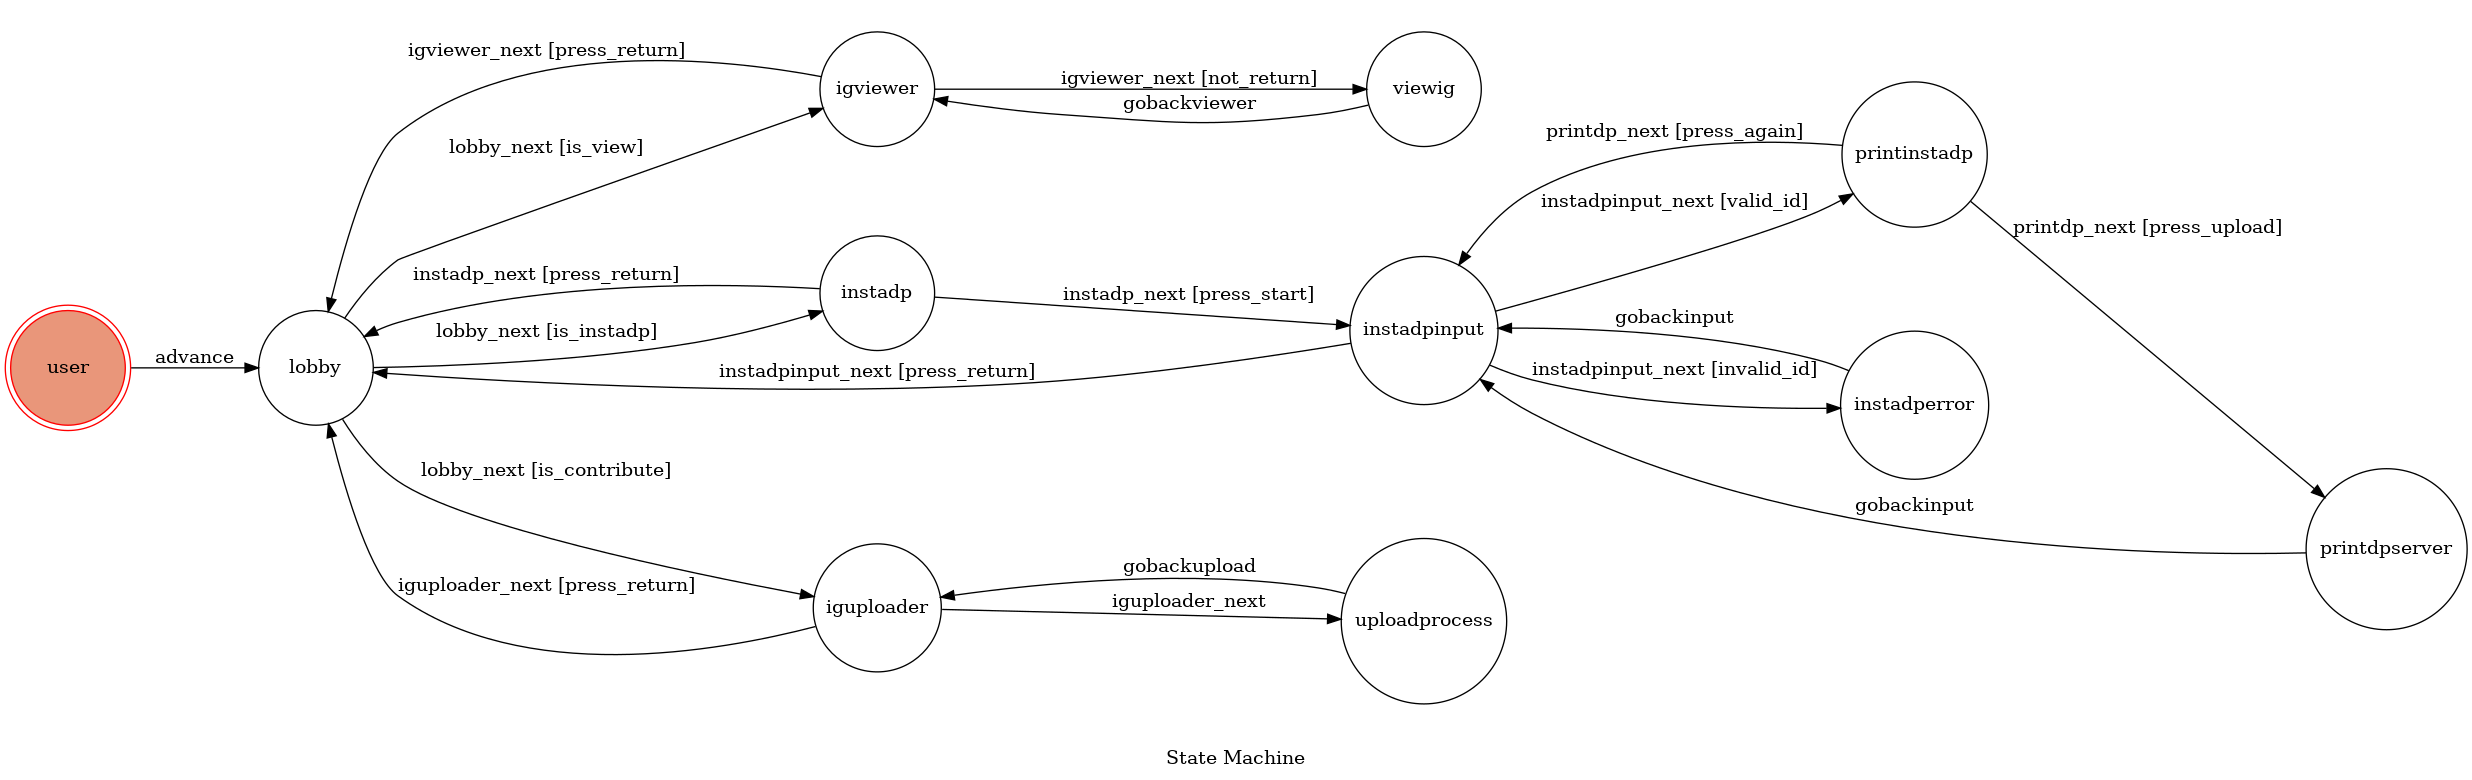
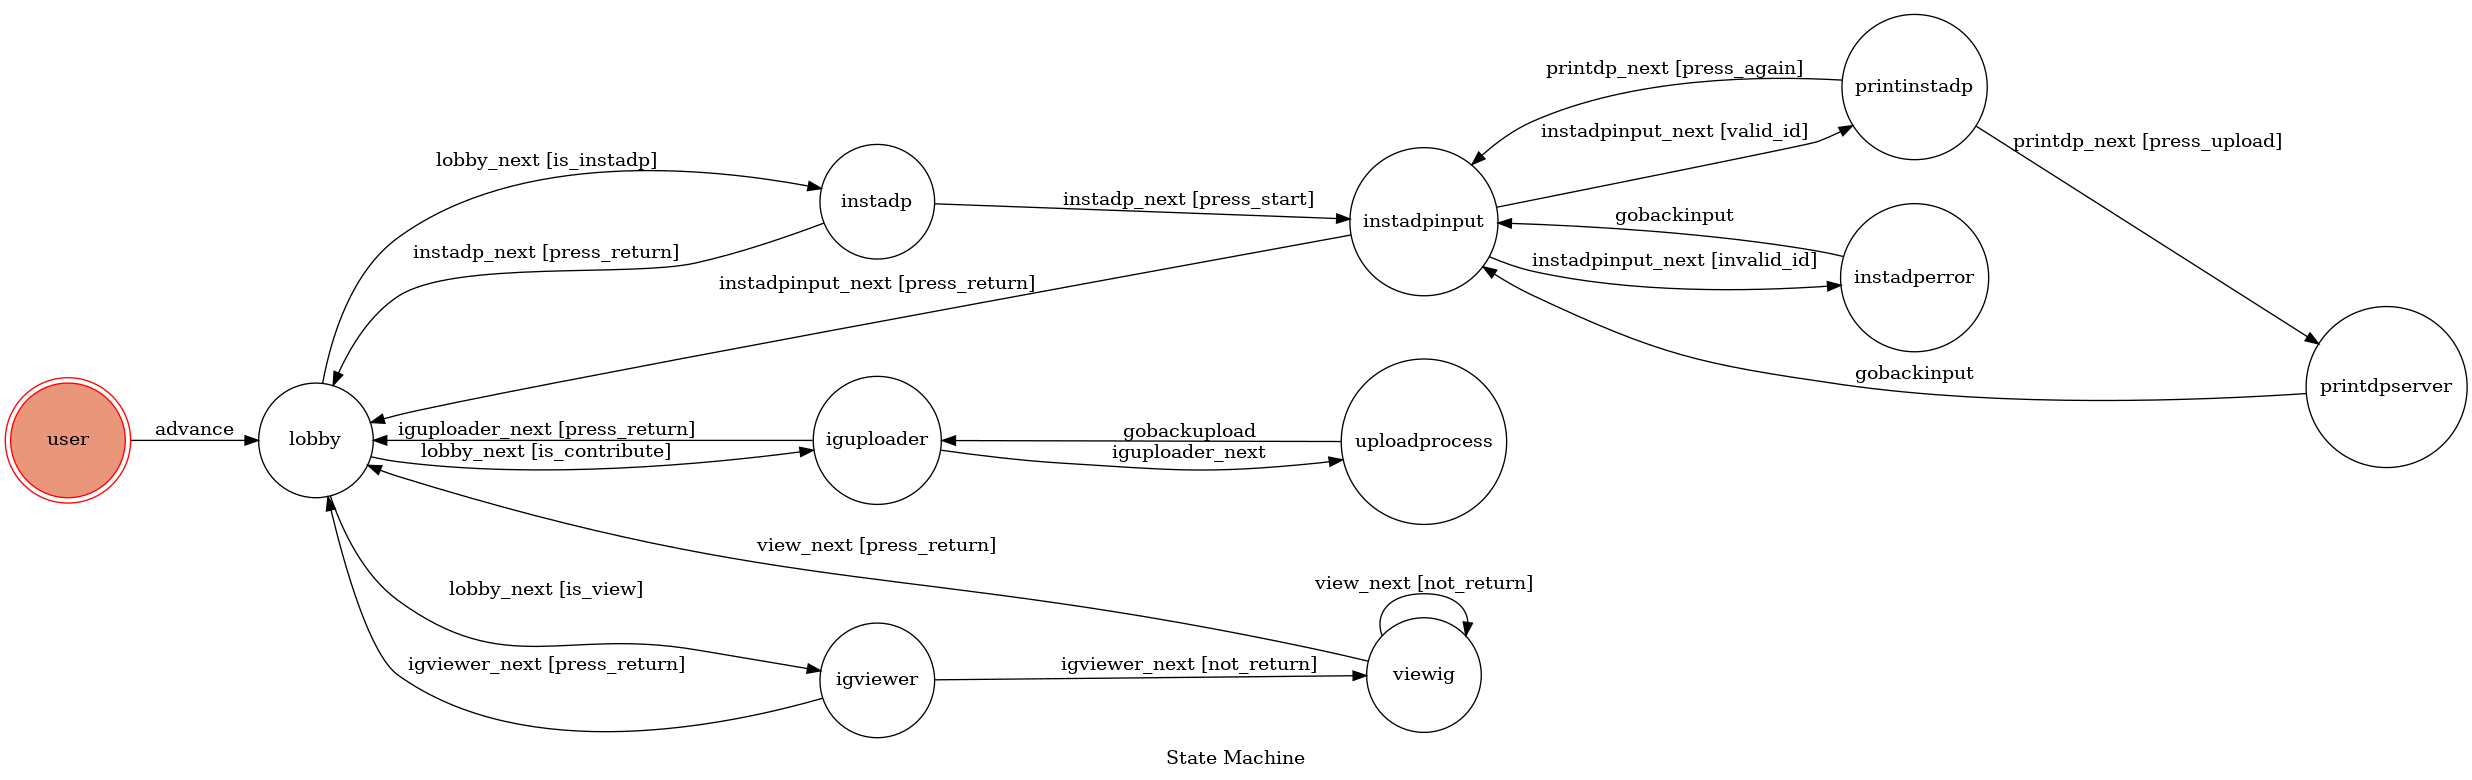
settle filter

diff --git a/messengerbot/igbot/fsm.py b/messengerbot/igbot/fsm.py
@@ -5,6 +5,7 @@ from igbot.messages import *
 from igbot.instadp import *
 
 from igbot.igbot_setting import *
+import operator
 singleIgUrl = ""
 post_url = "https://graph.facebook.com/v2.6/me/messenger_profile?access_token=%s" % ACCESS_TOKEN
 
@@ -149,8 +150,7 @@ class TocMachine(GraphMachine):
             countrylist = "%s\n%s" % (countrylist, entry['country'])
         print(genrelist)
         print(countrylist)
-        # api.button_message("輸入搜尋關鍵字\n\"我要看[臺灣/火熱/最新/推薦/Youtuber]正妹\"\n我要看馬來西亞正妹", messages['returnlobby_button'])
-        api.button_message("輸入搜尋關鍵字\n\"我要看[臺灣/火熱/最新/推薦/Youtuber]正妹\"\n範例:\"我要看馬來西亞正妹\"\n\n特殊關鍵字:\n熱門（Likes)\n最新(引進日期)\n\n類型關鍵字:%s\n\n國家關鍵字(Less Precedece):%s" % (genrelist, countrylist), messages['returnlobby_button'])        
+        api.button_message("輸入搜尋關鍵字\n\"我要看[臺灣/火熱/最新/推薦/Youtuber]正妹\"\n範例:\"我要看馬來西亞正妹\"\n\n特殊關鍵字:\n熱門（Likes)\n最新(引進日期)\n\n類型關鍵字:%s\n\n國家關鍵字:%s" % (genrelist, countrylist), messages['returnlobby_button'])        
 
     # Iguploader
     def on_enter_iguploader(self, sender_id, text):
@@ -159,8 +159,41 @@ class TocMachine(GraphMachine):
         
     def on_enter_viewig(self, sender_id, text):
         api = MessageAPI(sender_id)
-        api.text_message("處理資料看正妹")
-        self.gobackviewer(sender_id, text)
+        genres = Instagrammer.objects.order_by('genre').values('genre').distinct()
+        countries = Instagrammer.objects.order_by('country').values('country').distinct()
+        genre_taken = ""
+        country_taken = ""
+        genreflag = False
+        countryflag = False
+        for entry in genres:
+            r = text.find(entry['genre'])
+            if r > 0 and genreflag is False:
+                genreflag = True
+                genre_taken = entry['genre']
+                r_genre = r
+        for entry in countries:
+            r = text.find(entry['country'])
+            if r > 0 and countryflag is False:
+                countryflag = True
+                country_taken = entry['country']
+                r_country = r
+        filterig = Instagrammer.objects.all()
+        if genre_taken and not country_taken:
+            filterig = filterig.filter(genre = genre_taken)
+        elif country_taken and not genre_taken:
+            filterig = filterig.filter(country = country_taken)
+        elif genre_taken and country_taken:
+            if len(filterig.filter(country = country_taken).filter(genre = genre_taken)) == 0:
+                print(r_country)
+                print(r_genre)
+                print(filterig)          
+                if r_country < r_genre:
+                    filterig = filterig.filter(country = country_taken)
+                else:
+                    filterig = filterig.filter(genre = genre_taken)
+            else:
+                filterig = filterig.filter(country = country_taken).filter(genre = genre_taken)     
+        api.profileTemplates(filterig)
 
     def on_enter_uploadprocess(self, sender_id, text):
         api = MessageAPI(sender_id)

diff --git a/messengerbot/igbot/messageAPI.py b/messengerbot/igbot/messageAPI.py
@@ -55,14 +55,19 @@ class MessageAPI:
         })
         requests.post(post_url, headers={"Content-Type": "application/json"}, data=response)
 
-    def profileTemplates(self, num):
-        igs = Instagrammer.objects.all()[:num]
+    def profileTemplates(self, entries):
+        entries = entries[:10]
         generic_template = []
-        for ig in igs:
+        for ig in entries:
+            title = ig.id
+            if not ig.genre or ig.genre != "無":
+                title = "%s %s" % (title, ig.genre)
+            if not ig.country or ig.country != "無":
+                title = "%s %s" % (title, ig.country)
             generic_template.append({
-                "title":ig.id,
+                "title":title,
                 "image_url":ig.image_url,
-                # "subtitle":"",
+                "subtitle":"%s..." % ig.content[:76],
                 "default_action": {
                     "type": "web_url",
                     "url": ig.url,
@@ -100,9 +105,14 @@ class MessageAPI:
         requests.post(post_url, headers={"Content-Type": "application/json"}, data=request)
 
     def profileTemplatesSingle(self, ig):
+        title = ig.id
+        if not ig.genre or ig.genre != "無":
+            title = "%s %s" % (title, ig.genre)
+        if not ig.country or ig.country != "無":
+            title = "%s %s" % (title, ig.country)
         generic_template = [
             {
-                "title":ig.id,
+                "title": title,
                 "image_url":ig.image_url,
                 "subtitle":"%s..."%ig.content[:76],
                 "default_action": {

diff --git a/messengerbot/igbot/views.py b/messengerbot/igbot/views.py
@@ -126,11 +126,6 @@ machine = TocMachine(
             'conditions': 'not_return'
         },
         {
-            'trigger': 'gobackviewer',
-            'source': 'viewig',
-            'dest': 'igviewer',
-        },
-        {
             'trigger':'gobackupload',
             'source': 'uploadprocess',
             'dest': 'iguploader',
@@ -139,6 +134,18 @@ machine = TocMachine(
             'trigger': 'iguploader_next',
             'source': 'iguploader',
             'dest': 'uploadprocess',
+        },
+        {
+            'trigger': 'view_next',
+            'source': 'viewig',
+            'dest': 'viewig',
+            'conditions': 'not_return'
+        },
+        {
+            'trigger': 'view_next',
+            'source': 'viewig',
+            'dest': 'lobby',
+            'conditions': 'press_return'
         },
     ],
     initial='user',
@@ -175,6 +182,8 @@ def handleTrigger(state, send_id, text):
         machine.igviewer_next(send_id, text)
     if state == "iguploader":
         machine.iguploader_next(send_id, text)
+    if state == "viewig":
+        machine.view_next(send_id, text)
 
 # Create your views here.
 def show_fsm(self):
